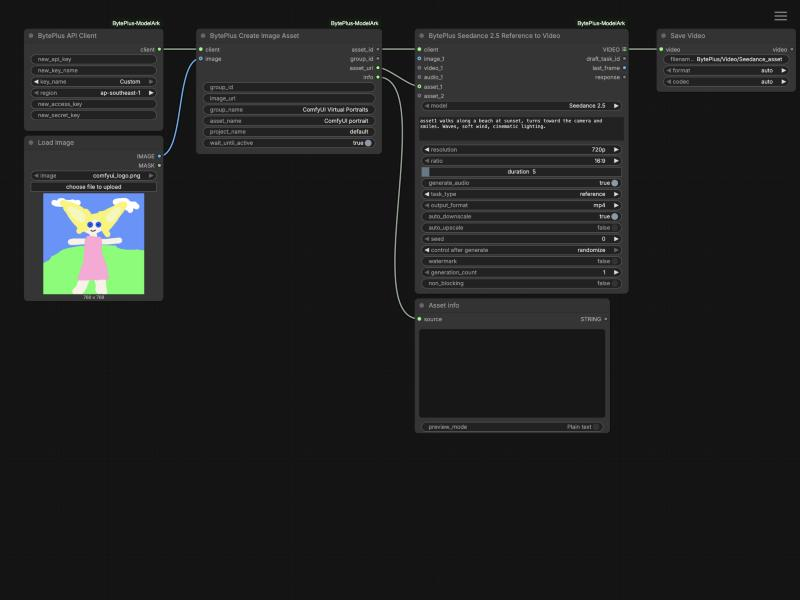
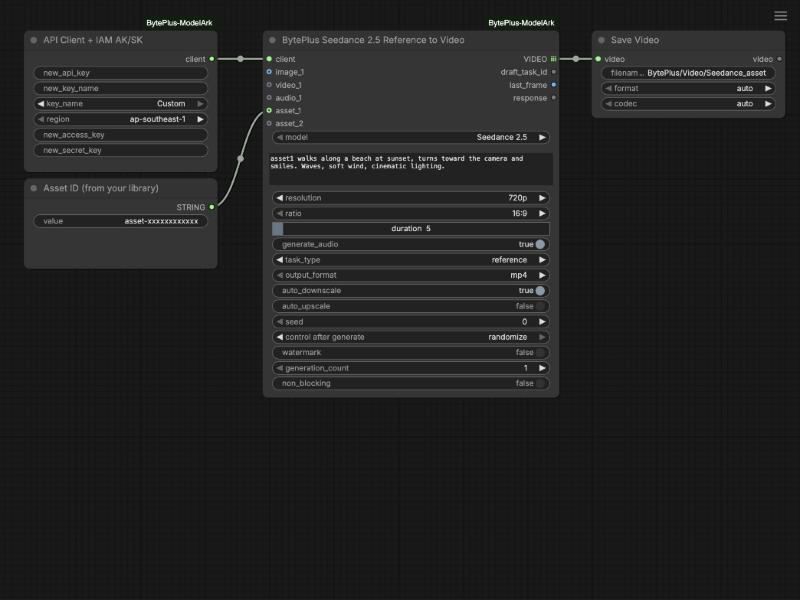
Simplify the Private Asset Library template to use an existing asset ID
The template now takes an asset ID from the private asset library (a Text node)
as the asset_1 reference of Seedance 2.5 Reference to Video, with the IAM AK/SK
on the API Client for the asset type lookup. Create Image Asset and Load Image
are no longer part of it; the Create Asset nodes are unchanged.

Also note the AK/SK widgets in the node-maintenance skill, retake the thumbnail
and update the template test and README line.

Changed region(s): [[0.0312, 0.03, 1.0, 0.72]]

diff --git a/tests/test_workflow_templates.py b/tests/test_workflow_templates.py
@@ -152,10 +152,6 @@ class WorkflowTemplateTests(unittest.TestCase):
         "BytePlusImageEnhance": [
             "mediakit_client", "image", "tool_version", "output_size.multiple", "output_size", "image_url",
         ],
-        "BytePlusCreateImageAsset": [
-            "client", "image", "group_id", "image_url", "group_name", "asset_name",
-            "project_name", "wait_until_active",
-        ],
         "BytePlusSeedAudio": [
             "speech_client", "text_prompt", "reference_mode", "reference_mode.preset_voice",
             "sample_rate", "speech_rate", "loudness_rate", "pitch_rate", "seed", "model",
@@ -533,17 +529,13 @@ class WorkflowTemplateTests(unittest.TestCase):
 
     def test_private_asset_library_template(self):
         workflow = load_workflow("Private Asset Library.json")
-        # The registered asset (asset_uri, output 2) is a reference of the Seedance node.
+        # An existing asset ID (Text node) is a reference of the Seedance node; the API Client
+        # carries the IAM AK/SK that look the asset's type up.
         self.assertEqual(self.edges(workflow), {
-            ("BytePlusAPIClient", 0, "BytePlusCreateImageAsset", "client"),
             ("BytePlusAPIClient", 0, "BytePlusSeedance2Reference", "client"),
-            ("LoadImage", 0, "BytePlusCreateImageAsset", "image"),
-            ("BytePlusCreateImageAsset", 2, "BytePlusSeedance2Reference", "model.reference_assets.asset_1"),
-            ("BytePlusCreateImageAsset", 3, "PreviewAny", "source"),
+            ("PrimitiveString", 0, "BytePlusSeedance2Reference", "model.reference_assets.asset_1"),
             ("BytePlusSeedance2Reference", 0, "SaveVideo", "video"),
         })
-        asset = next(n for n in workflow["nodes"] if n["type"] == "BytePlusCreateImageAsset")
-        self.assertEqual(asset["widgets_values"], ["", "", "ComfyUI Virtual Portraits", "ComfyUI portrait", "default", True])
         reference = next(n for n in workflow["nodes"] if n["type"] == "BytePlusSeedance2Reference")
         self.assertIn("asset1", reference["widgets_values"][1])
 

diff --git a/.claude/skills/byteplus-node-maintenance/SKILL.md b/.claude/skills/byteplus-node-maintenance/SKILL.md
@@ -9,7 +9,7 @@ Read `CLAUDE.md` first (layout, rules, checklists). This skill adds the mechanic
 
 ## Request lifecycle
 
-**Client.** `BytePlusAPIClient.execute` (`nodes_shared.py`) picks a key (`api_keys.json` entry, or `Custom` + `new_api_key`, validated by a GET on the base URL) and a region from `constants.REGION_BASE_URLS` (`ap-southeast-1` default, `eu-west-1`), builds `Ark(api_key=…, base_url=…)` from `byteplussdkarkruntime`, and returns `BytePlusClients` on the custom socket type `BYTEPLUS_CLIENT`. Every other node takes that socket. The only env vars read are `BYTEPLUS_ACCESS_KEY` / `BYTEPLUS_SECRET_KEY` / `BYTEPLUS_SESSION_TOKEN`, as a fallback for asset-library credentials when the `api_keys.json` entry has no `accessKey`/`secretKey`.
+**Client.** `BytePlusAPIClient.execute` (`nodes_shared.py`) picks a key (`api_keys.json` entry, or `Custom` + `new_api_key`, validated by a GET on the base URL; `Custom` also takes optional `new_access_key` / `new_secret_key`, both or neither, saved with the entry and used as the asset-library credentials) and a region from `constants.REGION_BASE_URLS` (`ap-southeast-1` default, `eu-west-1`), builds `Ark(api_key=…, base_url=…)` from `byteplussdkarkruntime`, and returns `BytePlusClients` on the custom socket type `BYTEPLUS_CLIENT`. Every other node takes that socket. The only env vars read are `BYTEPLUS_ACCESS_KEY` / `BYTEPLUS_SECRET_KEY` / `BYTEPLUS_SESSION_TOKEN`, as a fallback for asset-library credentials when the `api_keys.json` entry has no `accessKey`/`secretKey`.
 
 **Asset library (`nodes_assets.py`).** Signed ModelArk OpenAPI via `byteplussdkcore.universal.UniversalApi` (IAM AK/SK, host `ark.<region>.byteplusapi.com`, returns `Result`; errors are `ApiException` with a `ResponseMetadata.Error` JSON body, formatted by `_format_asset_error`). Actions: `ListAssetGroups`, `CreateAssetGroup` (GroupType `AIGC`), `CreateAsset` (needs an HTTPS URL → local images go through `upload_image_to_comfyapi`), `GetAsset` (`Processing` → `Active` | `Failed`), `ListAssets` (Filter.GroupType required: `AIGC` or `LivenessFace`). Seedance uses Active assets as `asset://<id>` in `ref_image_urls` / `ref_video_urls` / `ref_audio_urls` — that part needs only the API key.
 

diff --git a/README.md b/README.md
@@ -64,7 +64,7 @@ Example workflows are in [`example_workflows/`](./example_workflows) and appear 
 - `Seedance Video Extension`: three Seedance clips, each starting from the previous clip's `last_frame`, joined into one video (the join step uses ComfyUI's `Concatenate Video`, which needs ComfyUI 0.36 or later).
 - `Seed Prompt Writer`: BytePlus LLM turns a short idea into a detailed prompt for Seedream.
 - `Generate and Enhance`: Seedream, then Image Quality Enhance; Seedance, then vCube Video Enhance (needs a ModelArk key and a MediaKit key).
-- `Private Asset Library`: registers an image as a private asset and uses it as an `asset_N` reference in Seedance 2.5 (needs IAM AK/SK and Advanced Creation Rights).
+- `Private Asset Library`: uses an asset ID from your private asset library as an `asset_N` reference in Seedance 2.5 (needs IAM AK/SK and Advanced Creation Rights). To add new assets, use `Create Image Asset` and the other asset nodes.
 
 ## Installation
 
